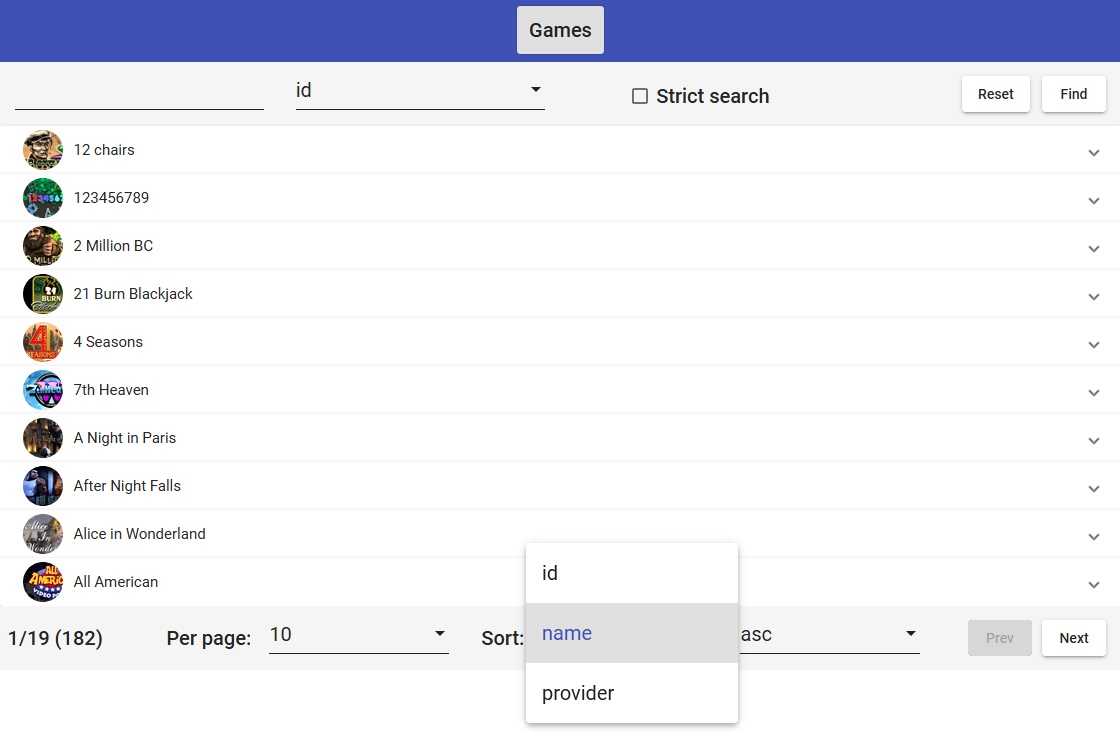
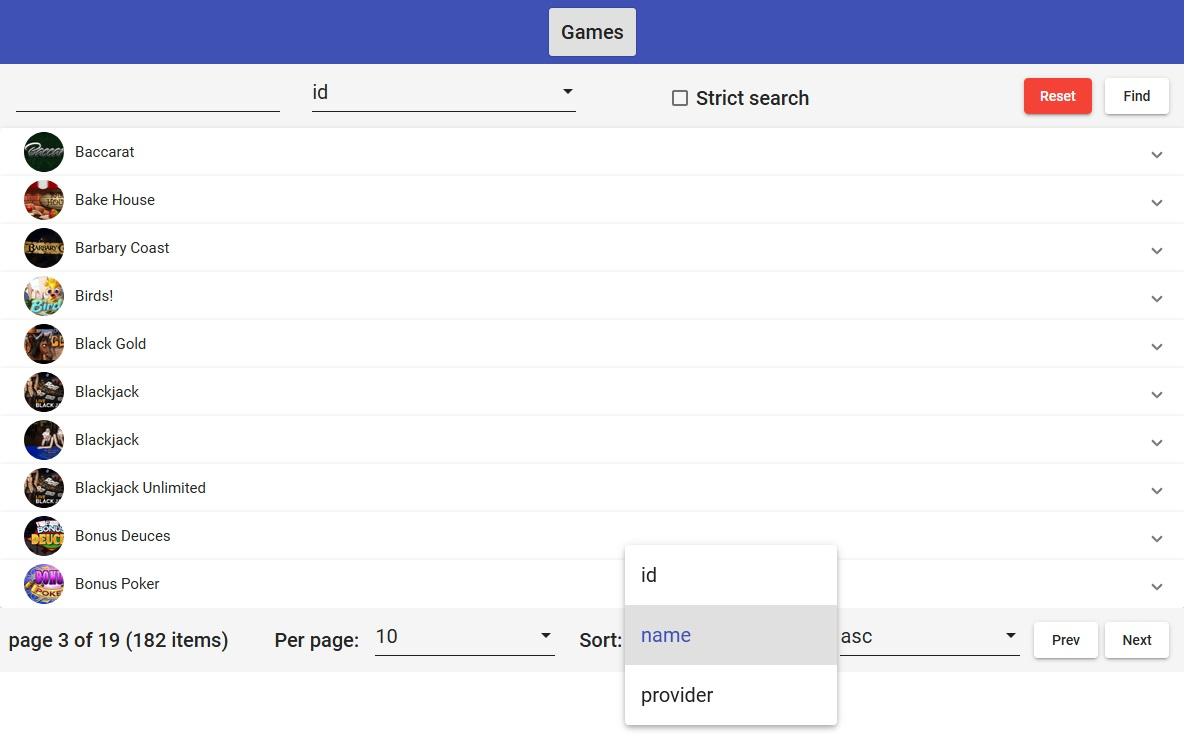
new look

diff --git a/src/app/games/games-list/games-list.component.html b/src/app/games/games-list/games-list.component.html
@@ -21,7 +21,7 @@
   </mat-toolbar-row>
 
   <mat-toolbar-row fxFlex fxLayout="row" fxLayoutAlign="end center">
-    <button mat-raised-button (click)="reset()">Reset</button>
+    <button mat-raised-button (click)="reset()" color="warn">Reset</button>
     <button mat-raised-button fxFlexOffset="5" (click)="searchGames()">Find</button>
   </mat-toolbar-row>
 
